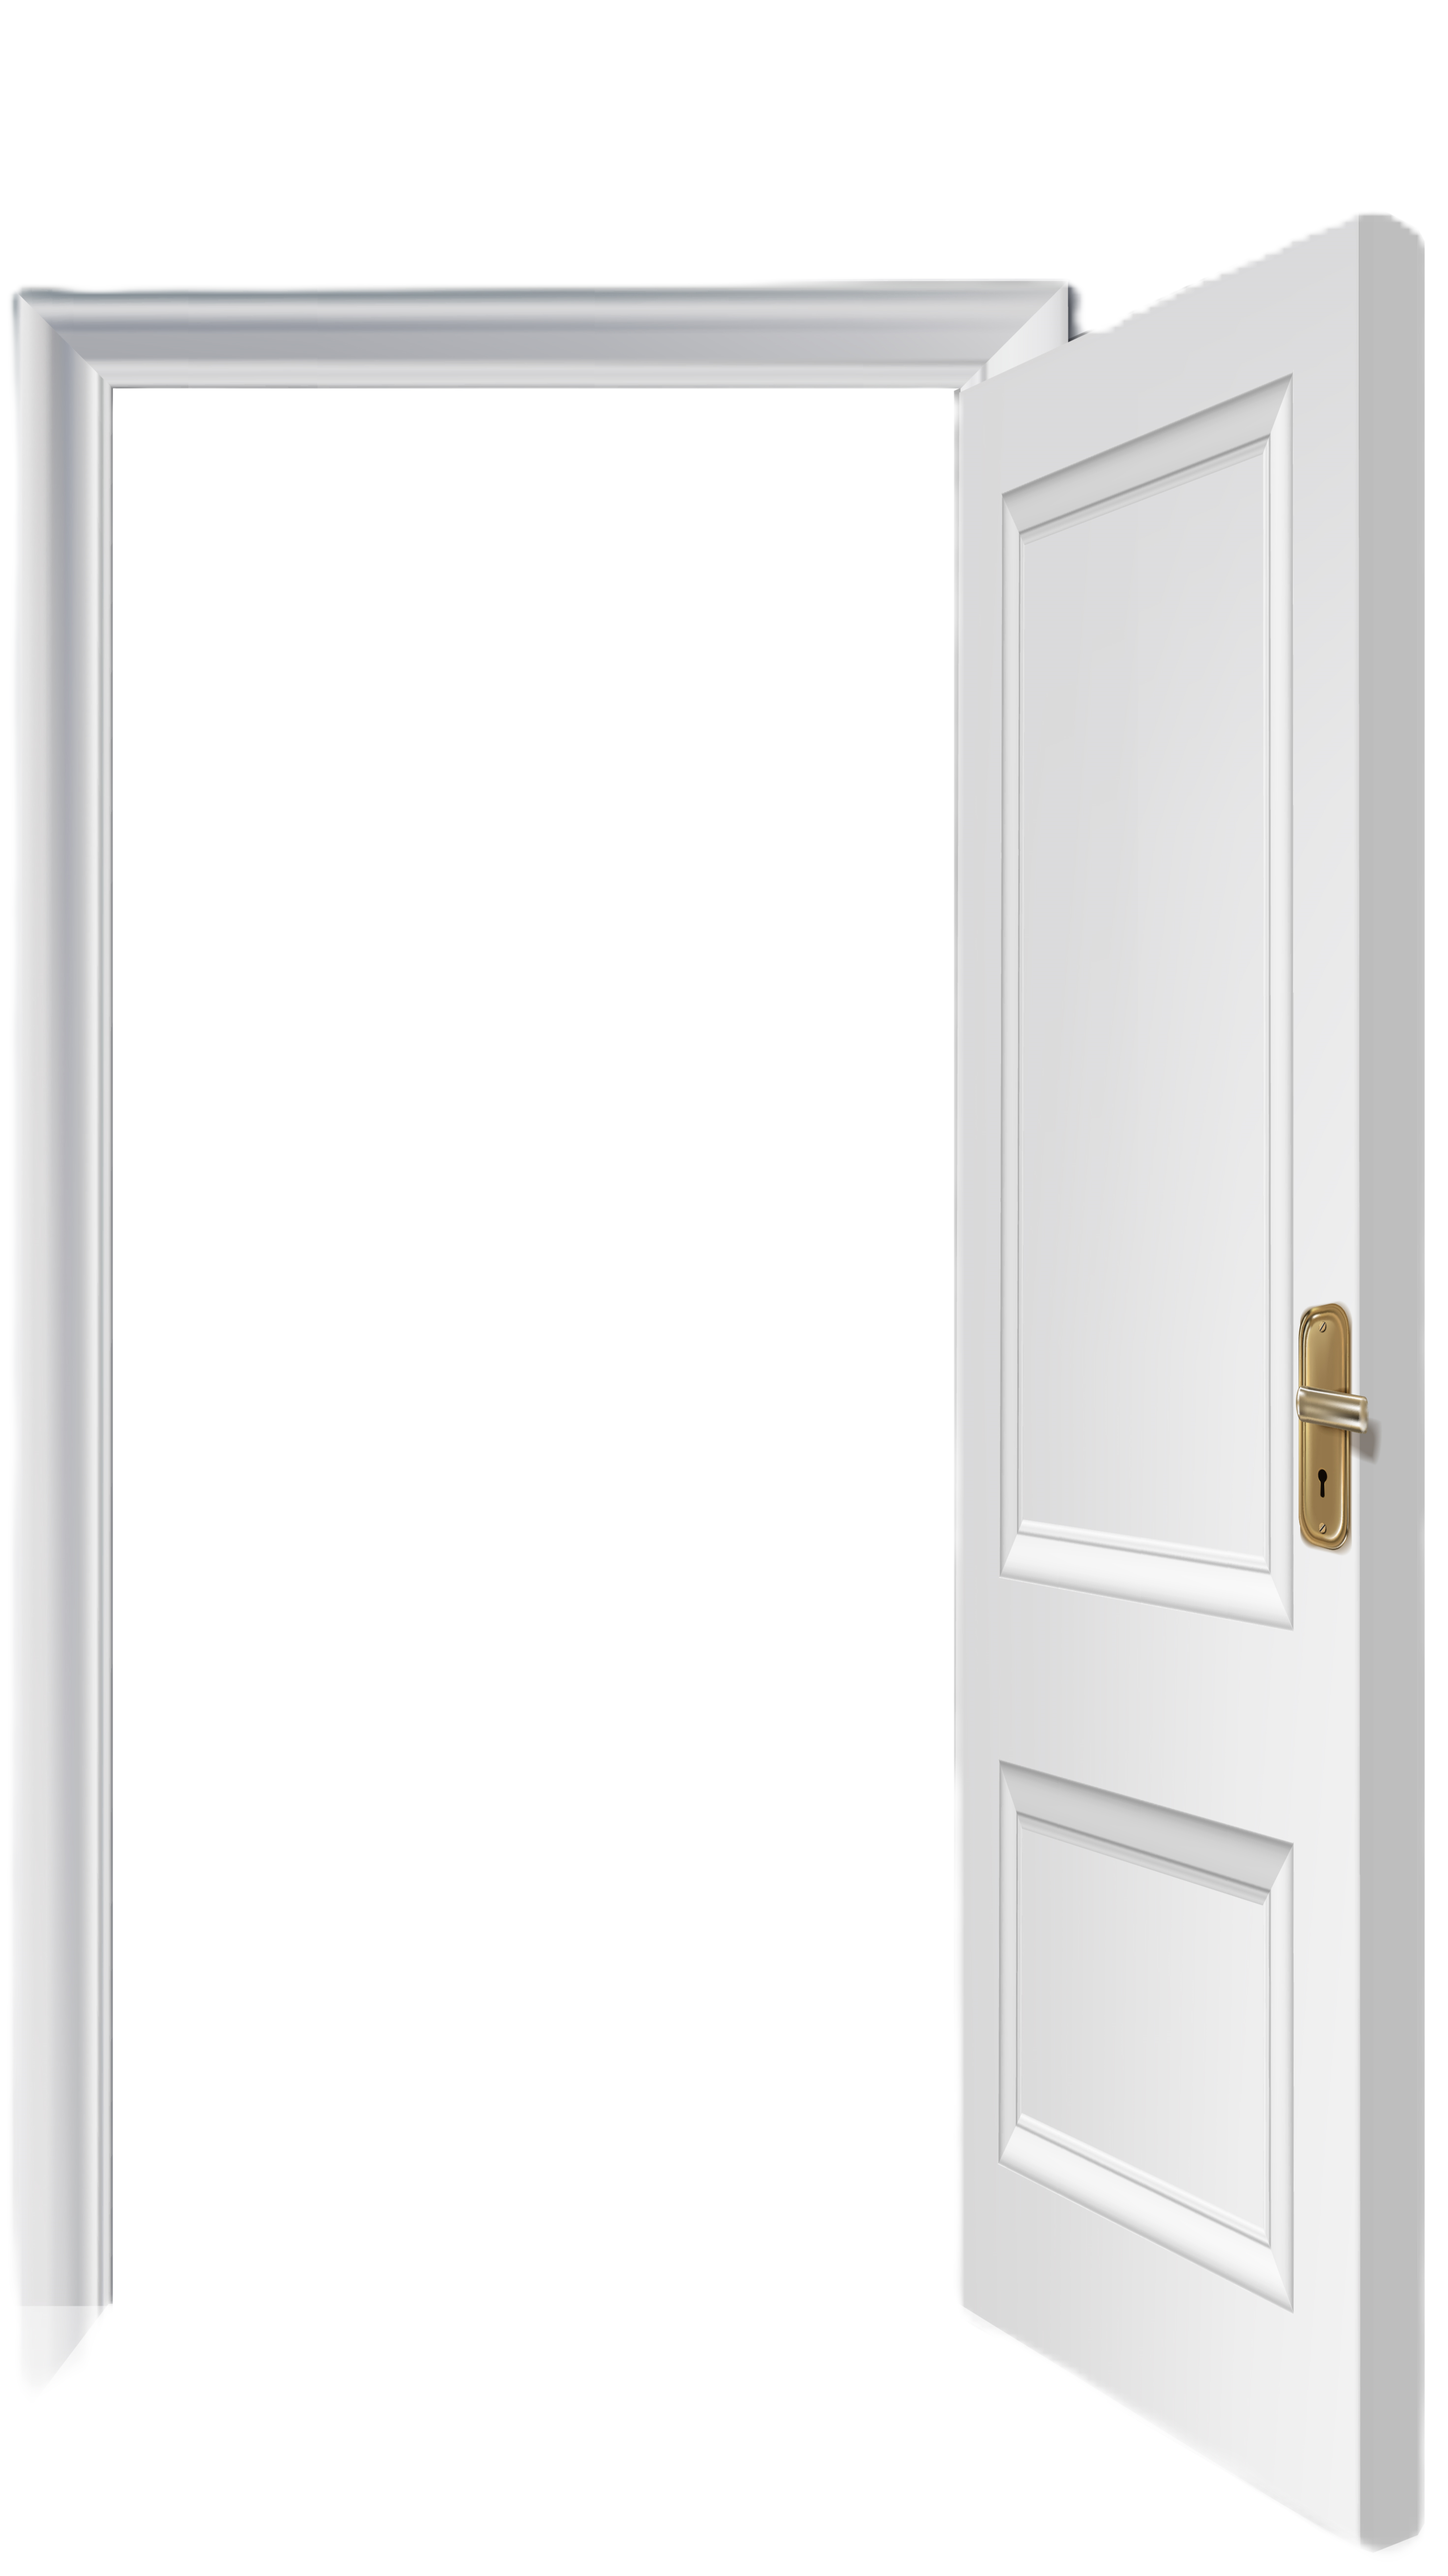
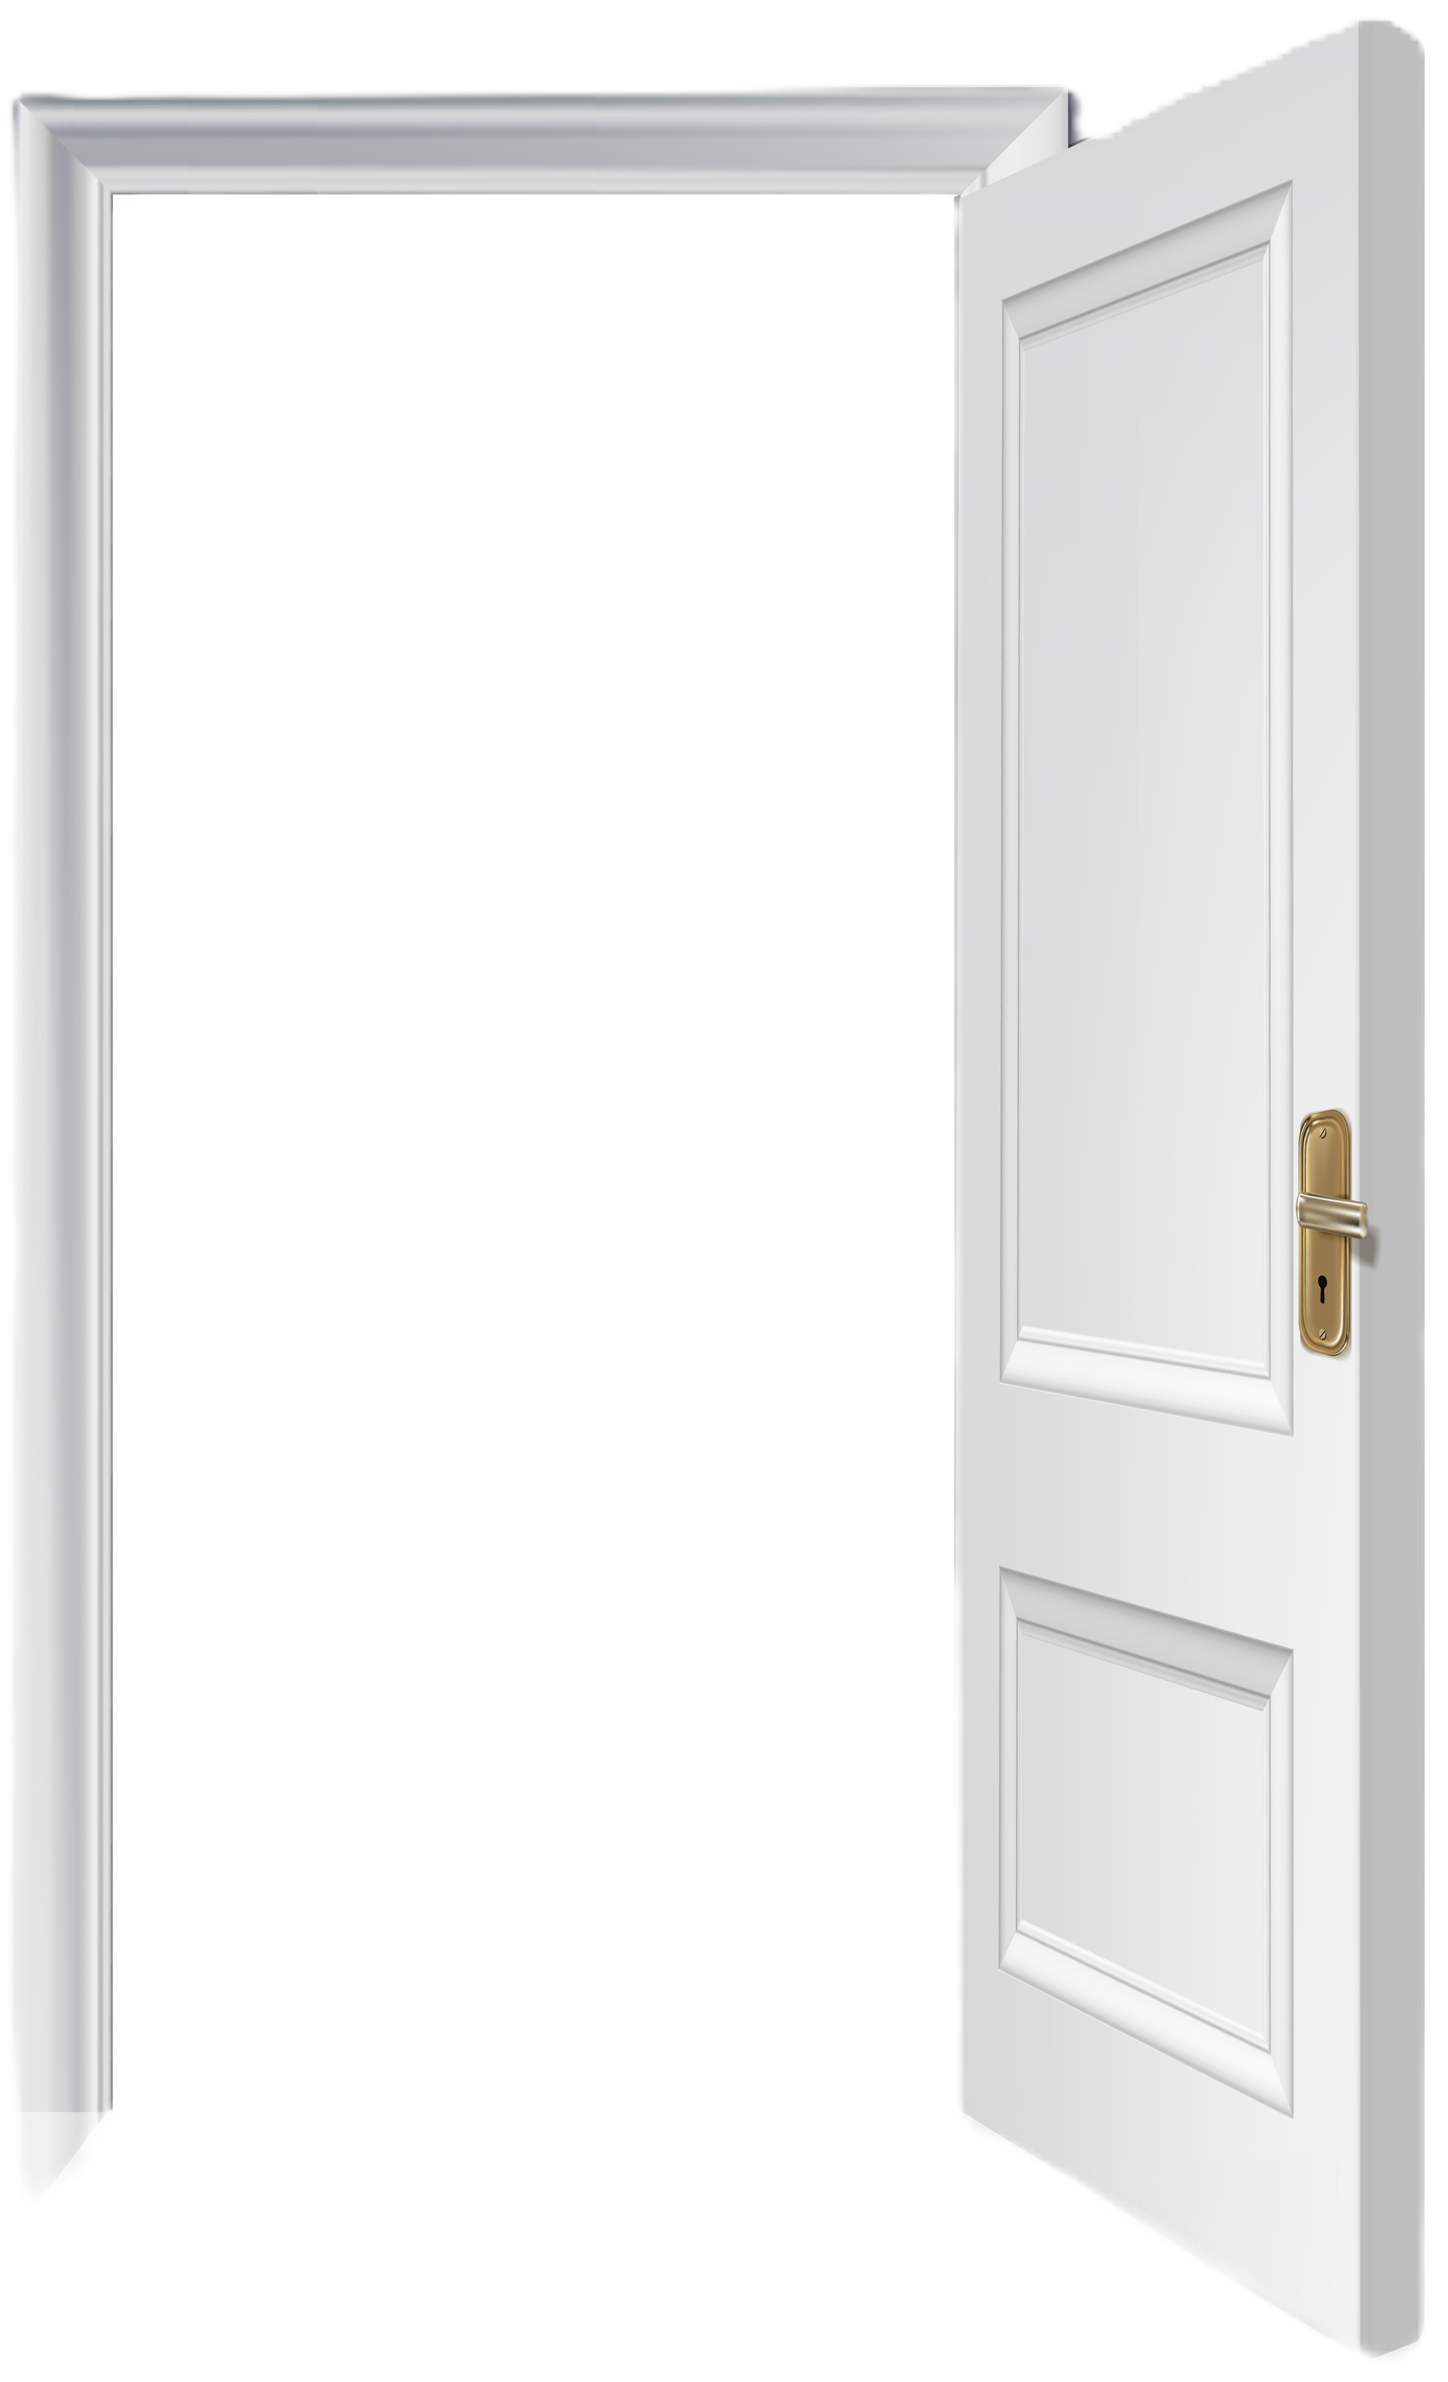
Animacion de puertas al abrirse y cerrarse. Seleccion de puerta con diseño. Correccion de logica en juego perdido en TRUE. Eliminacion de archivo de OpenesDoor.  New TODO para terminar y presentar.

diff --git a/app.js b/app.js
@@ -39,6 +39,7 @@ function handleDoorClick(doorNumber) {
     var label = `Labeldoor${doorNumber}`;
     document.getElementById(label).innerHTML = "YOU DOOR!";
     alert(`You clicked on door ${doorNumber}`);
+    OpenDoorAnimation(doorNumber, "src/SelectDoor.png");
 
     //Eventlistener para la puerta seleccionada
     removeAllDoorClicks(); // Eliminar todos los event listeners de las puertas
@@ -68,8 +69,12 @@ function handleDoorClick(doorNumber) {
         // Mostrar el resultado
         if (cambiopuertaValue === "true") {
             YouWinOrLose(true);
+            OpenDoorAnimation(cambiopuerta, "src/WinDoor.png");
         } else {
             YouWinOrLose(false);
+            OpenDoorAnimation(cambiopuerta, "src/OpenDoor.png");
+            OpenDoorAnimation(getRemainingDoor(doorNumber, MontyDoor), "src/WinDoor.png");
+            document.getElementById(`Labeldoor${getRemainingDoor(doorNumber, MontyDoor)}`).innerHTML = "PUERTA GANADORA!";
         }
        // document.body.appendChild(resultElement); // Agregar el elemento al final del <body>
 
@@ -125,6 +130,7 @@ function resetgame() {
         const doorElement = document.getElementById(`door${door}`);
         doorElement.dataset.value = values[index]; // Asignar el valor mezclado
         document.getElementById(`Labeldoor${door}`).innerHTML = ""; // Limpiar las etiquetas
+        OpenDoorAnimation(door, "src/Closedoor.png");
     });
     const resultElement = document.getElementById("WinOrLose");
     if (resultElement) {
@@ -181,6 +187,8 @@ function OpenDoorAnimation(doorNumber, newImageSrc) {
 
 //TODO: Tabla de resultados de juego
 
-//TODO: Animacion de puertas al abrirse y cerrarse
+//TODO: Borrar comentarios innecesarios
 
-//TODO: Crear diseño de puerta de seleccion
+//TODO: Diseño de pagina web
+
+//TODO: Preparacion para subir a github la primera aplicacion Publica.
